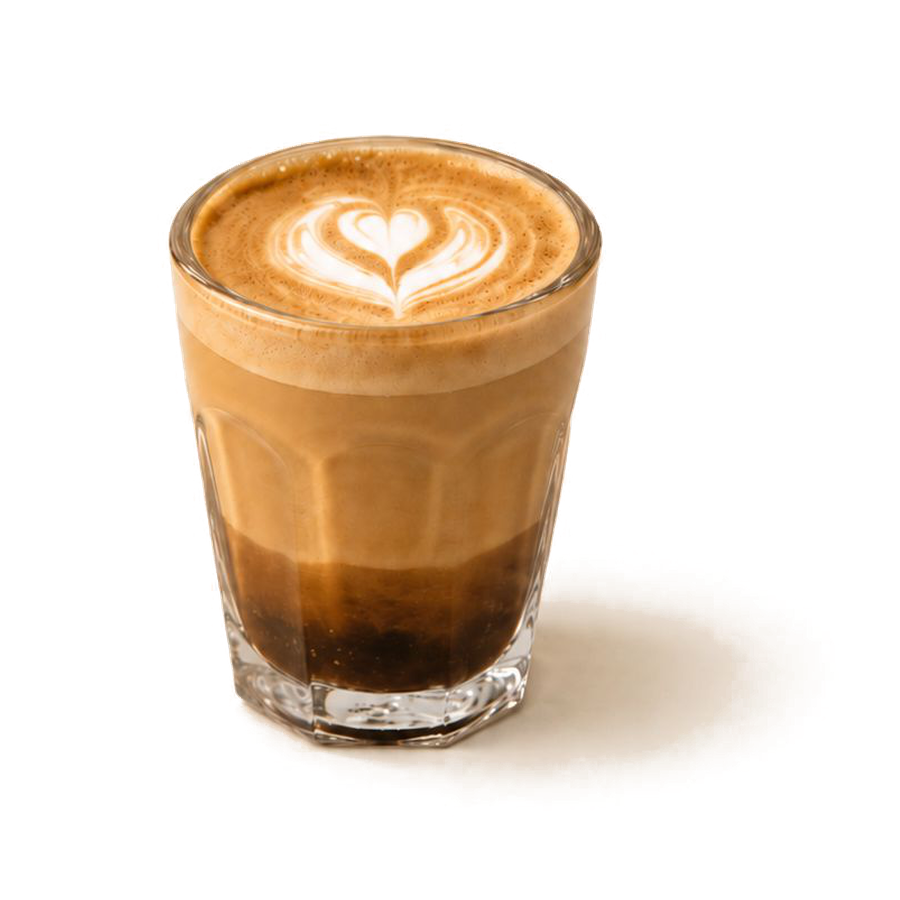
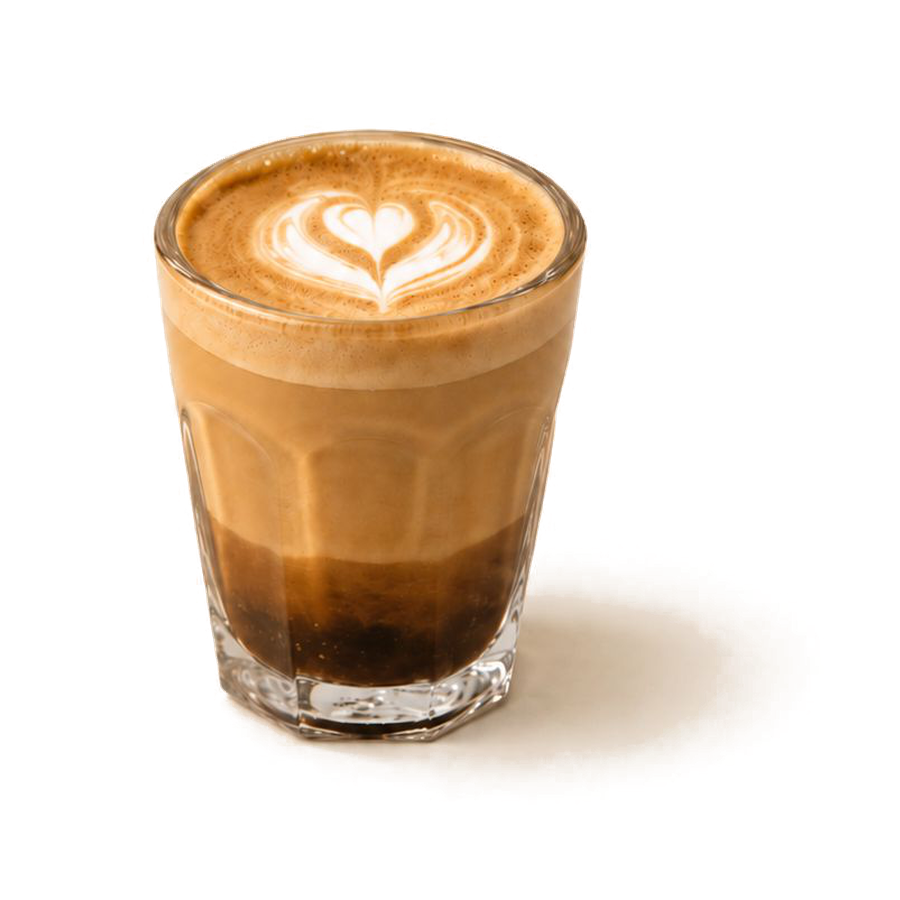
Cortado: centre the glass exactly in the card (size unchanged)

Changed region(s): [[0.1556, 0.1244, 0.6844, 0.84], [0.4044, 0.4356, 0.4356, 0.4667]]

diff --git a/data.js b/data.js
@@ -58,7 +58,7 @@ window.MENU = [
         allergens: [], nutrition: { kj: 20, kcal: 5, fat: 0, satFat: 0, carbs: 1, sugars: 0, fibre: 0, protein: 0, sodium: 5 } },
       { name: 'Americano',   ingr: 'espresso, hot water',        price: 3.00, color: '#3D2817', img: 'assets/drinks/coffee-americano.png?v=4',
         allergens: [], nutrition: { kj: 20, kcal: 5, fat: 0, satFat: 0, carbs: 1, sugars: 0, fibre: 0, protein: 0, sodium: 8 } },
-      { name: 'Cortado',     ingr: 'espresso, warm milk',        price: 3.00, color: '#A07856', img: 'assets/drinks/coffee-cortado.png?v=14',
+      { name: 'Cortado',     ingr: 'espresso, warm milk',        price: 3.00, color: '#A07856', img: 'assets/drinks/coffee-cortado.png?v=15',
         allergens: ['Milk'], nutrition: { kj: 210, kcal: 50, fat: 2.5, satFat: 1.5, carbs: 4, sugars: 4, fibre: 0, protein: 3, sodium: 40 } },
       { name: 'Flat White',  ingr: 'double ristretto, micro-foam', price: 3.50, color: '#B89373', img: 'assets/drinks/coffee-flat-white.png?v=11',
         allergens: ['Milk'], nutrition: { kj: 460, kcal: 110, fat: 5, satFat: 3, carbs: 9, sugars: 9, fibre: 0, protein: 6, sodium: 85 } },
